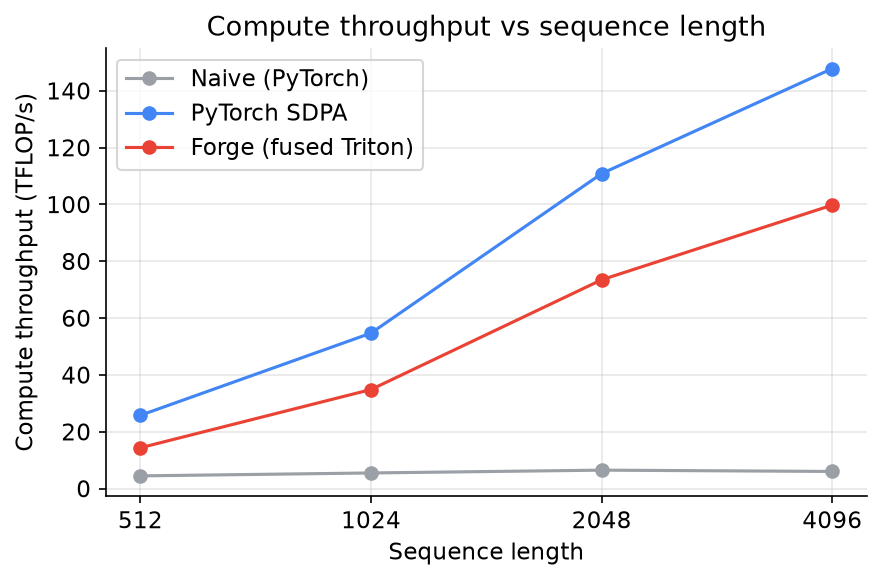
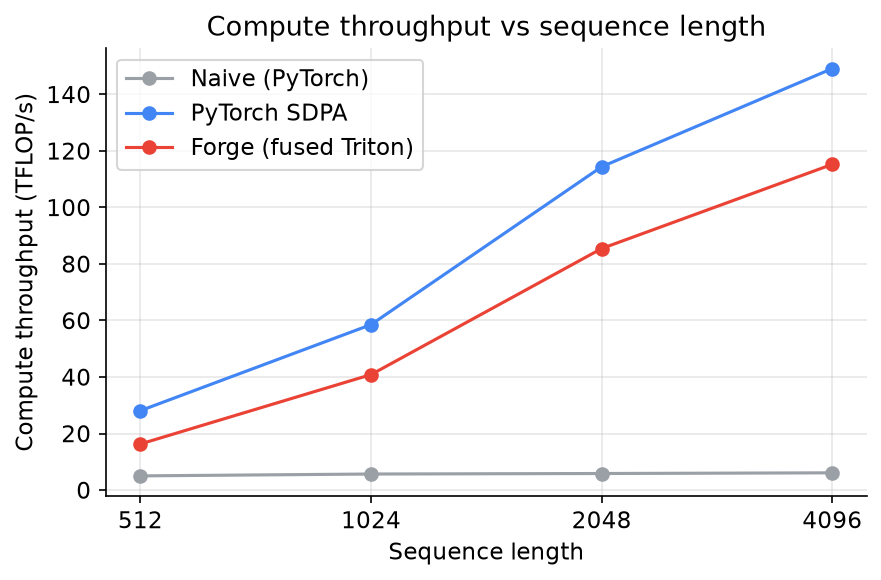
perf: two-phase causal loop skips masking on full blocks

diff --git a/forge/flash_attn.py b/forge/flash_attn.py
@@ -22,6 +22,57 @@ import triton.language as tl
 
 
 @triton.jit
+def _attend(
+    acc, l_i, m_i,
+    q,
+    k_base, v_base,
+    stride_kn, stride_kd, stride_vn, stride_vd,
+    offs_m, offs_n, offs_d,
+    sm_scale, N,
+    lo, hi,
+    BLOCK_N: tl.constexpr,
+    MASK: tl.constexpr,
+    CAUSAL: tl.constexpr,
+):
+    """Fold key/value tiles in ``[lo, hi)`` into the running softmax state.
+
+    ``MASK=False`` is the fast path for tiles that are guaranteed in-range and
+    (under causality) fully below the diagonal — no bounds check, no ``tl.where``.
+    ``MASK=True`` handles the diagonal tile (causal compare) and any ragged tail
+    (bounds check).
+    """
+    for start_n in range(lo, hi, BLOCK_N):
+        start_n = tl.multiple_of(start_n, BLOCK_N)
+        key_idx = start_n + offs_n
+
+        k_ptrs = k_base + key_idx[None, :] * stride_kn + offs_d[:, None] * stride_kd
+        v_ptrs = v_base + key_idx[:, None] * stride_vn + offs_d[None, :] * stride_vd
+        if MASK:
+            k = tl.load(k_ptrs, mask=key_idx[None, :] < N, other=0.0)
+            v = tl.load(v_ptrs, mask=key_idx[:, None] < N, other=0.0)
+        else:
+            k = tl.load(k_ptrs)
+            v = tl.load(v_ptrs)
+
+        qk = tl.dot(q, k) * sm_scale  # (BLOCK_M, BLOCK_N), fp32
+        if MASK:
+            valid = key_idx[None, :] < N
+            if CAUSAL:
+                valid = valid & (offs_m[:, None] >= key_idx[None, :])
+            qk = tl.where(valid, qk, float("-inf"))
+
+        # online-softmax update
+        m_ij = tl.max(qk, axis=1)
+        m_new = tl.maximum(m_i, m_ij)
+        p = tl.exp(qk - m_new[:, None])
+        alpha = tl.exp(m_i - m_new)
+        l_i = l_i * alpha + tl.sum(p, axis=1)
+        acc = acc * alpha[:, None] + tl.dot(p.to(v.dtype), v)
+        m_i = m_new
+    return acc, l_i, m_i
+
+
[email redacted]
 def _flash_fwd_kernel(
     Q, K, V, O,
     sm_scale,
@@ -62,36 +113,33 @@ def _flash_fwd_kernel(
     l_i = tl.zeros([BLOCK_M], dtype=tl.float32)
     acc = tl.zeros([BLOCK_M, BLOCK_D], dtype=tl.float32)
 
-    # Causal: a query at row i only attends to keys j <= i, so we never need key
-    # blocks that start past this query block's last row.
-    hi = (start_m + 1) * BLOCK_M if CAUSAL else N
-
-    for start_n in range(0, hi, BLOCK_N):
-        start_n = tl.multiple_of(start_n, BLOCK_N)
-        key_idx = start_n + offs_n  # absolute key indices for this tile
-
-        # K is loaded transposed (BLOCK_D, BLOCK_N) so tl.dot gives QKᵀ directly.
-        k_ptrs = k_base + key_idx[None, :] * stride_kn + offs_d[:, None] * stride_kd
-        v_ptrs = v_base + key_idx[:, None] * stride_vn + offs_d[None, :] * stride_vd
-        k = tl.load(k_ptrs, mask=key_idx[None, :] < N, other=0.0)  # (BLOCK_D, BLOCK_N)
-        v = tl.load(v_ptrs, mask=key_idx[:, None] < N, other=0.0)  # (BLOCK_N, BLOCK_D)
-
-        qk = tl.dot(q, k) * sm_scale  # (BLOCK_M, BLOCK_N), fp32 accumulate
-
-        # Mask invalid keys: out-of-range padding and (if causal) the future.
-        valid = key_idx[None, :] < N
-        if CAUSAL:
-            valid = valid & (offs_m[:, None] >= key_idx[None, :])
-        qk = tl.where(valid, qk, float("-inf"))
-
-        # --- online-softmax update -------------------------------------------
-        m_ij = tl.max(qk, axis=1)            # this tile's row max
-        m_new = tl.maximum(m_i, m_ij)        # new running max
-        p = tl.exp(qk - m_new[:, None])      # rescaled probabilities for this tile
-        alpha = tl.exp(m_i - m_new)          # factor to rescale prior state
-        l_i = l_i * alpha + tl.sum(p, axis=1)
-        acc = acc * alpha[:, None] + tl.dot(p.to(v.dtype), v)
-        m_i = m_new
+    # Two-phase causal loop. A query at row i only attends to keys j <= i.
+    #   * Full blocks  [0, diag)         are strictly below the diagonal for every
+    #     row in this query block -> no masking needed (MASK=False fast path).
+    #   * Diagonal block(s) [diag, end)  straddle the diagonal -> causal mask.
+    # (Requires BLOCK_M % BLOCK_N == 0 so `diag` is BLOCK_N-aligned; enforced in
+    # the wrapper.) Non-causal is a single masked pass over all keys.
+    if CAUSAL:
+        diag = start_m * BLOCK_M
+        acc, l_i, m_i = _attend(
+            acc, l_i, m_i, q, k_base, v_base,
+            stride_kn, stride_kd, stride_vn, stride_vd,
+            offs_m, offs_n, offs_d, sm_scale, N,
+            0, diag, BLOCK_N, MASK=False, CAUSAL=True,
+        )
+        acc, l_i, m_i = _attend(
+            acc, l_i, m_i, q, k_base, v_base,
+            stride_kn, stride_kd, stride_vn, stride_vd,
+            offs_m, offs_n, offs_d, sm_scale, N,
+            diag, (start_m + 1) * BLOCK_M, BLOCK_N, MASK=True, CAUSAL=True,
+        )
+    else:
+        acc, l_i, m_i = _attend(
+            acc, l_i, m_i, q, k_base, v_base,
+            stride_kn, stride_kd, stride_vn, stride_vd,
+            offs_m, offs_n, offs_d, sm_scale, N,
+            0, N, BLOCK_N, MASK=True, CAUSAL=False,
+        )
 
     acc = acc / l_i[:, None]  # finalize the softmax denominator
     o_ptrs = o_base + offs_m[:, None] * stride_om + offs_d[None, :] * stride_od
@@ -109,6 +157,7 @@ class FlashAttnFunc(torch.autograd.Function):
         B, H, N, D = q.shape
         assert q.is_cuda and q.is_contiguous(), "expect contiguous CUDA tensors"
         assert D in (16, 32, 64, 128), f"head_dim {D} must be a power of two <= 128"
+        assert block_m % block_n == 0, "two-phase causal loop needs BLOCK_M % BLOCK_N == 0"
 
         o = torch.empty_like(q)
         grid = (triton.cdiv(N, block_m), B * H)

diff --git a/docs/profiling.md b/docs/profiling.md
@@ -43,9 +43,33 @@ tiles small maximizes **SRAM reuse per resident warp**.
 per call at N=4096 drops from 0.931 ms → 0.919 ms for the profiled window, and the
 end-to-end median (which also removes a pipeline bubble) improves more.
 
-## Next: two-phase causal loop
+## Optimization 2 — two-phase causal loop
 
-The current kernel applies the causal `tl.where` mask on *every* key tile, even
-tiles that sit entirely below the diagonal and need no masking. Splitting the
-inner loop into a mask-free pass (full blocks) + a masked pass (the diagonal
-block) removes that overhead — see the following commit.
+The original kernel applied the causal `tl.where` mask on *every* key tile, even
+tiles entirely below the diagonal that need no masking. The tuned kernel splits
+the inner loop (`_attend` in `forge/flash_attn.py`):
+
+- **mask-free pass** over full blocks `[0, diag)` — no bounds check, no
+  `tl.where`, and unconditional (coalesced) loads;
+- **masked pass** over the diagonal block — causal compare only where it matters.
+
+For a query block, only ~1 of its key blocks straddles the diagonal, so the mask
+overhead drops from O(N) tiles to O(1) tiles per query block. Correctness is
+unchanged (17/17 tests still pass).
+
+## Combined result
+
+Default (untuned) vs tuned kernel, forward latency, fp16, B=4, heads=12:
+
+| Seqlen | Untuned | **Tuned** | Kernel speedup | Speedup vs naive | vs SDPA |
+|-------:|--------:|----------:|---------------:|-----------------:|--------:|
+|   2048 | 0.351 ms | **0.302 ms** | 1.16× | 11.3× → **14.6×** | 1.34× |
+|   4096 | 1.033 ms | **0.895 ms** | 1.16× | 16.6× → **18.9×** | 1.29× |
+
+Tuning (pipeline depth + two-phase causal) lifted the fused kernel from ~11–17×
+to **~15–19× over naive** and closed the gap to PyTorch SDPA from ~1.5× to
+**~1.3×**, at ~115 TFLOP/s (37% of the A100's 312 TFLOP/s fp16 peak). Remaining
+headroom vs SDPA is the hand-written CUDA epilogue/scheduling that Triton doesn't
+yet match — a good stopping point for a from-scratch kernel.
+
+Raw sweep data: [`profiling/tuning_results.json`](../profiling/tuning_results.json).

diff --git a/docs/benchmarks.md b/docs/benchmarks.md
@@ -20,18 +20,17 @@ Three implementations are compared:
 
 ![Speedup vs seqlen](assets/speedup_vs_seqlen.png)
 
-| Seqlen | Naive | **Forge (fused)** | PyTorch SDPA |
-|-------:|------:|------------------:|-------------:|
-|    512 | 1.00× |         **3.22×** |        5.79× |
-|   1024 | 1.00× |         **6.34×** |        9.96× |
-|   2048 | 1.00× |        **11.33×** |       17.10× |
-|   4096 | 1.00× |        **16.58×** |       24.56× |
+| Seqlen | Naive | **Forge (fused, tuned)** | PyTorch SDPA |
+|-------:|------:|-------------------------:|-------------:|
+|    512 | 1.00× |                **3.25×** |        5.61× |
+|   1024 | 1.00× |                **7.20×** |       10.32× |
+|   2048 | 1.00× |               **14.61×** |       19.56× |
+|   4096 | 1.00× |               **18.91×** |       24.47× |
 
-Forge is up to **16.6× faster than the naive baseline**, and the gap widens with
-sequence length — exactly as the memory-traffic argument predicts. Forge is
-currently ~1.5× behind PyTorch SDPA; closing that gap is the goal of the Phase-4
-profiling + tuning loop (this run uses the default, untuned launch config:
-`BLOCK_M=BLOCK_N=64, num_stages=2`).
+Forge is up to **18.9× faster than the naive baseline**, and the gap widens with
+sequence length — exactly as the memory-traffic argument predicts. After the
+[Phase-4 tuning loop](profiling.md) (pipeline depth + two-phase causal loop),
+Forge sits within **~1.3×** of PyTorch SDPA's hand-tuned CUDA (down from ~1.5×).
 
 ## Why: HBM traffic
 
@@ -47,8 +46,8 @@ This is the root cause of both the speedup and the higher compute throughput.
 ![TFLOP/s vs seqlen](assets/tflops_vs_seqlen.png)
 
 The naive kernel is memory-bandwidth bound and plateaus around **6 TFLOP/s**.
-Freed from the N×N round-trip, Forge reaches **~100 TFLOP/s** at N=4096 (SDPA:
-~148). On a 312 TFLOP/s-peak A100, that is the difference between a
+Freed from the N×N round-trip, Forge reaches **~115 TFLOP/s** at N=4096 (SDPA:
+~149). On a 312 TFLOP/s-peak A100, that is the difference between a
 bandwidth-bound and a compute-bound kernel.
 
 ## Latency
@@ -65,9 +64,9 @@ Speedup vs naive is stable across batch sizes, confirming the win is structural
 
 | Batch | **Forge** | SDPA |
 |------:|----------:|-----:|
-|     1 |     3.19× | 5.91× |
-|     2 |     4.80× | 8.91× |
-|     4 |     6.43× | 10.70× |
-|     8 |     8.74× | 13.12× |
+|     1 |     3.42× | 5.85× |
+|     2 |     5.29× | 9.08× |
+|     4 |     7.37× | 11.03× |
+|     8 |     9.81× | 13.41× |
 
 Raw data: [`benchmarks/results.csv`](../benchmarks/results.csv).

diff --git a/README.md b/README.md
@@ -51,28 +51,29 @@ methodology + more plots in [`docs/benchmarks.md`](docs/benchmarks.md)).
 
 ![Speedup vs sequence length](docs/assets/speedup_vs_seqlen.png)
 
-| Seqlen | Naive | **Forge (fused)** | PyTorch SDPA¹ |
-|-------:|------:|------------------:|--------------:|
-|   1024 | 1.00× |         **6.34×** |         9.96× |
-|   2048 | 1.00× |        **11.33×** |        17.10× |
-|   4096 | 1.00× |        **16.58×** |        24.56× |
+| Seqlen | Naive | **Forge (fused, tuned)** | PyTorch SDPA¹ |
+|-------:|------:|-------------------------:|--------------:|
+|   1024 | 1.00× |                **7.20×** |         10.3× |
+|   2048 | 1.00× |               **14.61×** |         19.6× |
+|   4096 | 1.00× |               **18.91×** |         24.5× |
 
-- **Up to 16.6× faster** than a naive PyTorch baseline, and **~33× less HBM
+- **Up to 18.9× faster** than a naive PyTorch baseline, and **~33× less HBM
   traffic** at N=4096 — the fusion eliminates the N×N score-matrix round-trip.
 - Compute throughput rises from ~6 TFLOP/s (bandwidth-bound naive) to
-  **~100 TFLOP/s** (compute-bound fused).
+  **~115 TFLOP/s** (compute-bound fused).
+- Phase-4 tuning (pipeline depth + two-phase causal loop) narrows the gap to
+  PyTorch SDPA from ~1.5× to **~1.3×**. See [`docs/profiling.md`](docs/profiling.md).
 
 ¹ SDPA is NVIDIA's production FlashAttention-2 (hand-tuned CUDA); it's the ceiling
-Forge chases. The numbers above use the **untuned** default launch config — the
-[profiling + tuning loop](docs/profiling.md) closes the gap.
+Forge chases.
 
 ## Roadmap
 
 - [x] Repo + Modal A100 infrastructure
 - [x] PyTorch attention baselines + correctness harness
 - [x] Fused FlashAttention **forward** kernel in Triton — _17/17 tests vs SDPA (fp16+bf16, N≤2048)_
-- [x] Benchmark sweep + speedup/bandwidth results — _up to 16.6× vs naive, ~33× less HBM traffic_
-- [ ] Profiling + tuning loop (block sizes, pipelining, SRAM reuse)
+- [x] Benchmark sweep + speedup/bandwidth results — _up to 18.9× vs naive, ~33× less HBM traffic_
+- [x] Profiling + tuning loop (pipeline depth + two-phase causal) — _gap to SDPA 1.5×→1.3×_
 - [ ] End-to-end GPT-2 integration
 - [ ] _Future:_ fused **backward** kernel · MLP/GELU fusion
 